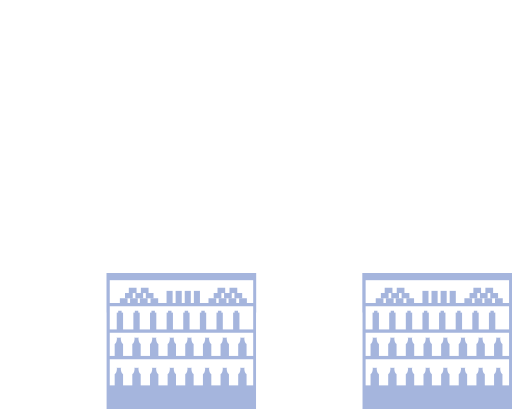
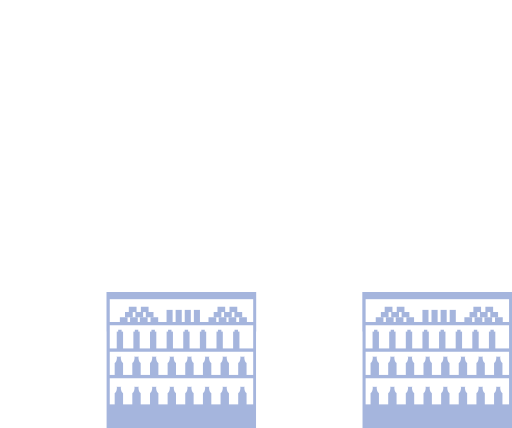
updated work level

Changed region(s): [[0.6875, 0.6455, 1.0, 0.9095], [0.1875, 0.6455, 0.5, 0.9095]]

diff --git a/lib/js/levels/stress_level-work.js b/lib/js/levels/stress_level-work.js
@@ -3,10 +3,42 @@ var level_work = level_work || {};
 
 level_work = {
 	name: 'work',
-	obstacles: function (level) {
-		level.obstacles.create(200, stress.dim.h() - 100, level.levelName() + '-platform');
+	music: 'workMusic',
+	hordes: [],
+	customDude: true,
+	messages: function(level) {
+		level.introtext = level.add.sprite(210, level.game.height - 460, 'work-intro');
+		level.introtext.scale.setTo(0.3,0.3);
+		level.introtext.animations.add('right', [0, 1, 2, 3], 0.3, false);
+		level.introtext.fixedToCamera = true;
+		level.introtext.play('right');
 	},
-	update: function() {
+	obstacles: function (level) {
 
+		// level.hordes = level.add.sprite(3000, stress.game.height - 190, 'school-books');
+		// level.hordes.animations.add('right', [0, 1, 2, 3], 4, false);
+		// level.hordes.scale.setTo(0.5, 0.5);
+		// level.obstacles.add(level.hordes);
+
+		var x = 3000;
+		for (var i = 0; i < 30; i++){
+			if (x < 38000) {
+				var bin = new this.horde(level, x);
+				this.hordes.push(bin);
+				x += stress.rand(3200, 1500);
+			}
+		}
+
+		level.obstacles.callAll('animations.add', 'animations', 'abc', [0, 1, 2, 3, 4, 5], 8, true);
+	},
+	update: function (level) {
+		if (level.player.x > 2500) {
+			level.obstacles.callAll('animations.play', 'animations', 'abc');
+		}
+	},
+	horde: function(level, x) {
+		var books = level.add.sprite(x, stress.game.height - level.platformTop - 70, 'work-horde');
+		books.scale.setTo(0.7, 0.7);
+		level.obstacles.add(books);
 	}
 };

diff --git a/lib/js/stress_preload.js b/lib/js/stress_preload.js
@@ -102,6 +102,10 @@ stress.Preload.prototype = {
 		this.load.image('work-background', baseImage_src + 'levels/work/background.png');
 		this.load.image('work-platform', baseImage_src + 'levels/work/platform.png');
 		this.load.spritesheet('work-dude', baseImage_src + 'levels/work/boss.png', 64, 96);
+		this.load.spritesheet('work_male_dude', baseImage_src + 'levels/work/man-werk.png', 250.75, 400);
+		this.load.spritesheet('work_female_dude', baseImage_src + 'levels/work/vrouw-werk.png', 250.75, 400);
+		this.load.spritesheet('work-intro', baseImage_src + 'levels/work/introwork-sprite.png', 656, 532);
+		this.load.spritesheet('work-horde', baseImage_src + 'levels/work/supermarket_stand_sprite.png', 122.333, 181);
 
 		// sport level
 		this.load.image('sport-skyline', baseImage_src + 'levels/sport/skyline.png');
@@ -109,6 +113,8 @@ stress.Preload.prototype = {
 		this.load.image('sport-platform', baseImage_src + 'levels/sport/platform.png');
 		this.load.spritesheet('sport-intro', baseImage_src + 'levels/sport/sport-sprite.png', 656, 532);
 		this.load.image('sport-horde', baseImage_src + 'levels/sport/obstakel-sport.png');
+		this.load.spritesheet('sport_male_dude', baseImage_src + 'levels/sport/man-sport.png', 250.75, 400);
+		this.load.spritesheet('sport_female_dude', baseImage_src + 'levels/sport/vrouw-sport.png', 250.75, 400);
 		//this.load.spritesheet('sport-dude', baseImage_src + 'levels/sport/boss.png', 64, 96);
 	},
 	create: function() {

diff --git a/lib/js/stress_messages.js b/lib/js/stress_messages.js
@@ -26,7 +26,7 @@ stress.Message.prototype = {
 
 			// normal text
 
-			var gameOverText = this.scene.game.add.text(stress.game.width / 2, stress.game.height / 2 - 100, 'Opgeven is geen optie, je kan het! \nProbeer het nog een keer in je eigen tempo!', normalStyle);
+			var gameOverText = this.scene.game.add.text(stress.game.width / 2, stress.game.height / 2 - 80, 'Opgeven is geen optie, je kan het! \nProbeer het nog een keer in je eigen tempo!', normalStyle);
 			gameOverText.anchor.setTo(0.5);
 			this.scene.messages.add(gameOverText);
 		}
@@ -37,7 +37,7 @@ stress.Message.prototype = {
 		}
 		if (type === 'gameOver' || type === 'completed') {
 			// score
-			var levelScore = this.scene.game.add.text(stress.game.width / 2, stress.game.height / 2 + 20, this.scene.score + ' Balans Punten', style);
+			var levelScore = this.scene.game.add.text(stress.game.width / 2, stress.game.height / 2 + 40, this.scene.score + ' Balans Punten', style);
 			levelScore.anchor.setTo(0.5);
 			this.scene.messages.add(levelScore);
 

diff --git a/lib/js/states/stress_level.js b/lib/js/states/stress_level.js
@@ -54,7 +54,11 @@ stress.Level.prototype = {
 		}
 
 		//  The Player
-		this.player = this.add.sprite(64, 0, 'level_'+ localStorage.gender +'_dude');
+		if (this.thisLevel.customDude) {
+			this.player = this.add.sprite(64, 0, this.levelName() + '_' + localStorage.gender + '_dude');
+		} else {
+			this.player = this.add.sprite(64, 0, 'level_' + localStorage.gender + '_dude');
+		}
 		this.physics.arcade.enable(this.player);
 		this.player.body.collideWorldBounds = true;
 		//this.player.body.setSize(51, 64, 10, 32);

diff --git a/lib/js/levels/stress_level-sport.js b/lib/js/levels/stress_level-sport.js
@@ -5,6 +5,7 @@ level_sport = {
 	name: 'sport',
 	music: 'sportMusic',
 	hordes: [],
+	customDude: true,
 	messages: function(level) {
 		level.introtext = level.add.sprite(210, level.game.height - 460, 'sport-intro');
 		level.introtext.scale.setTo(0.3,0.3);
